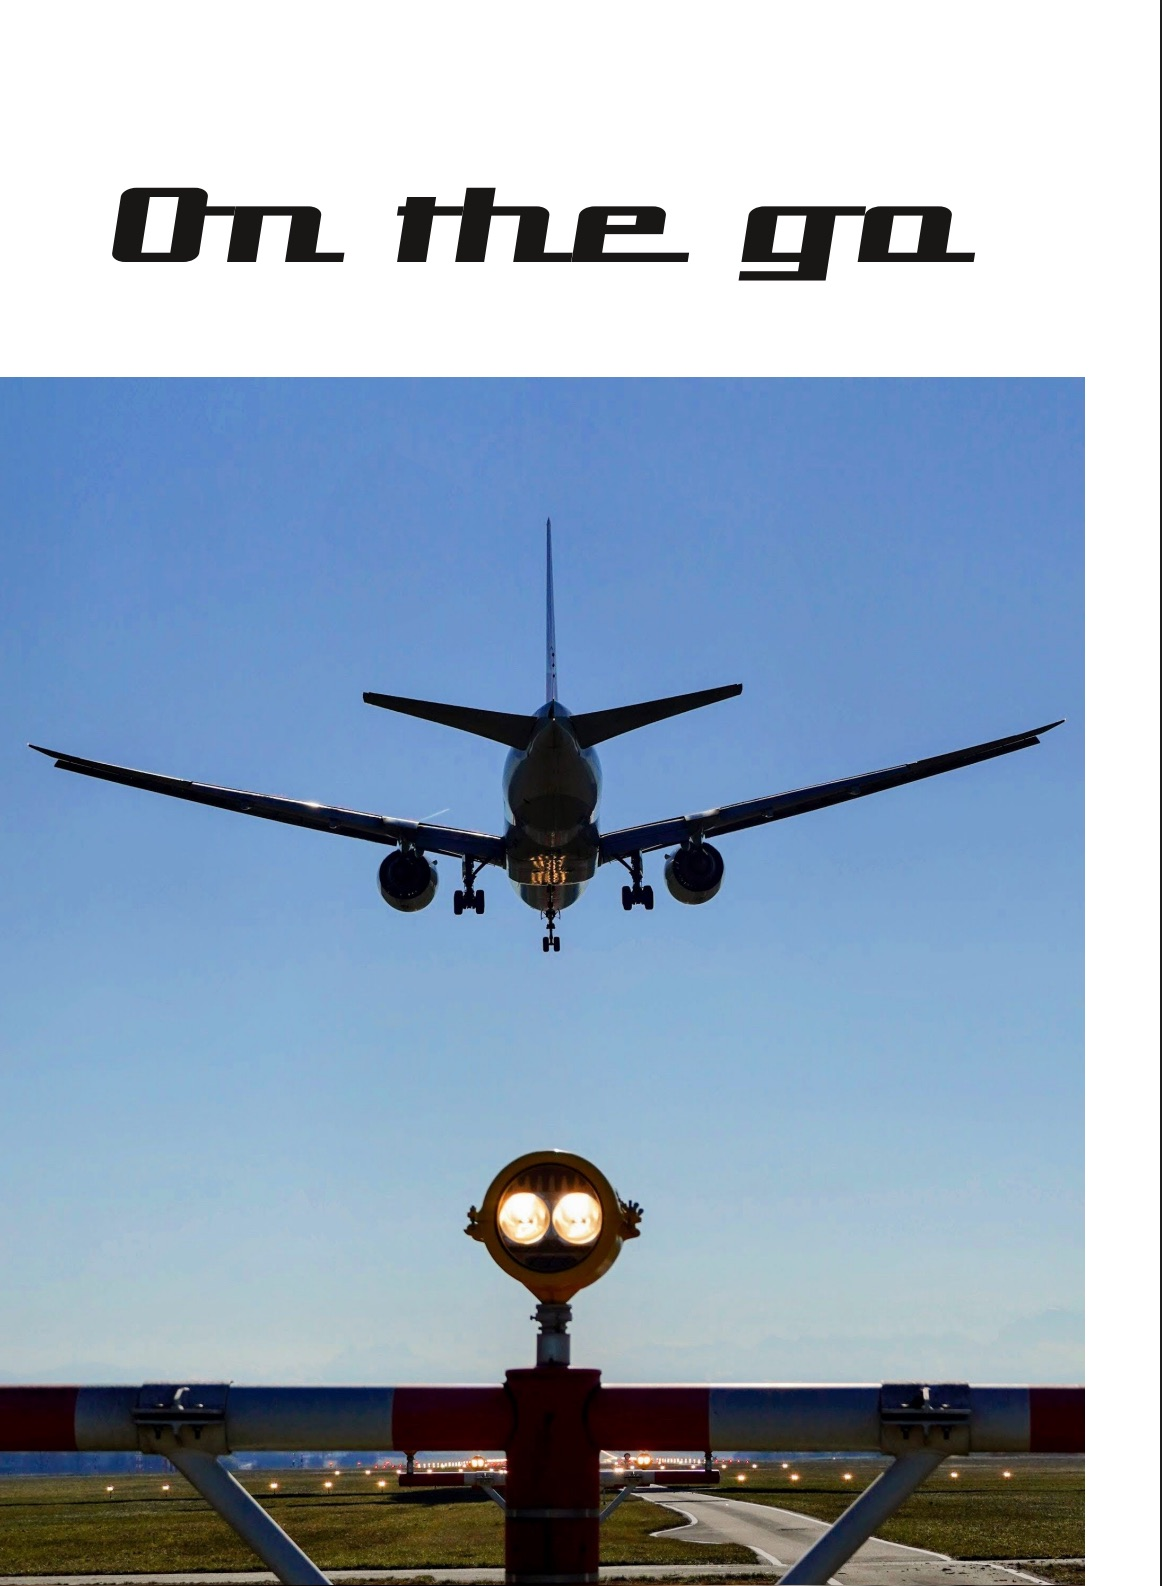
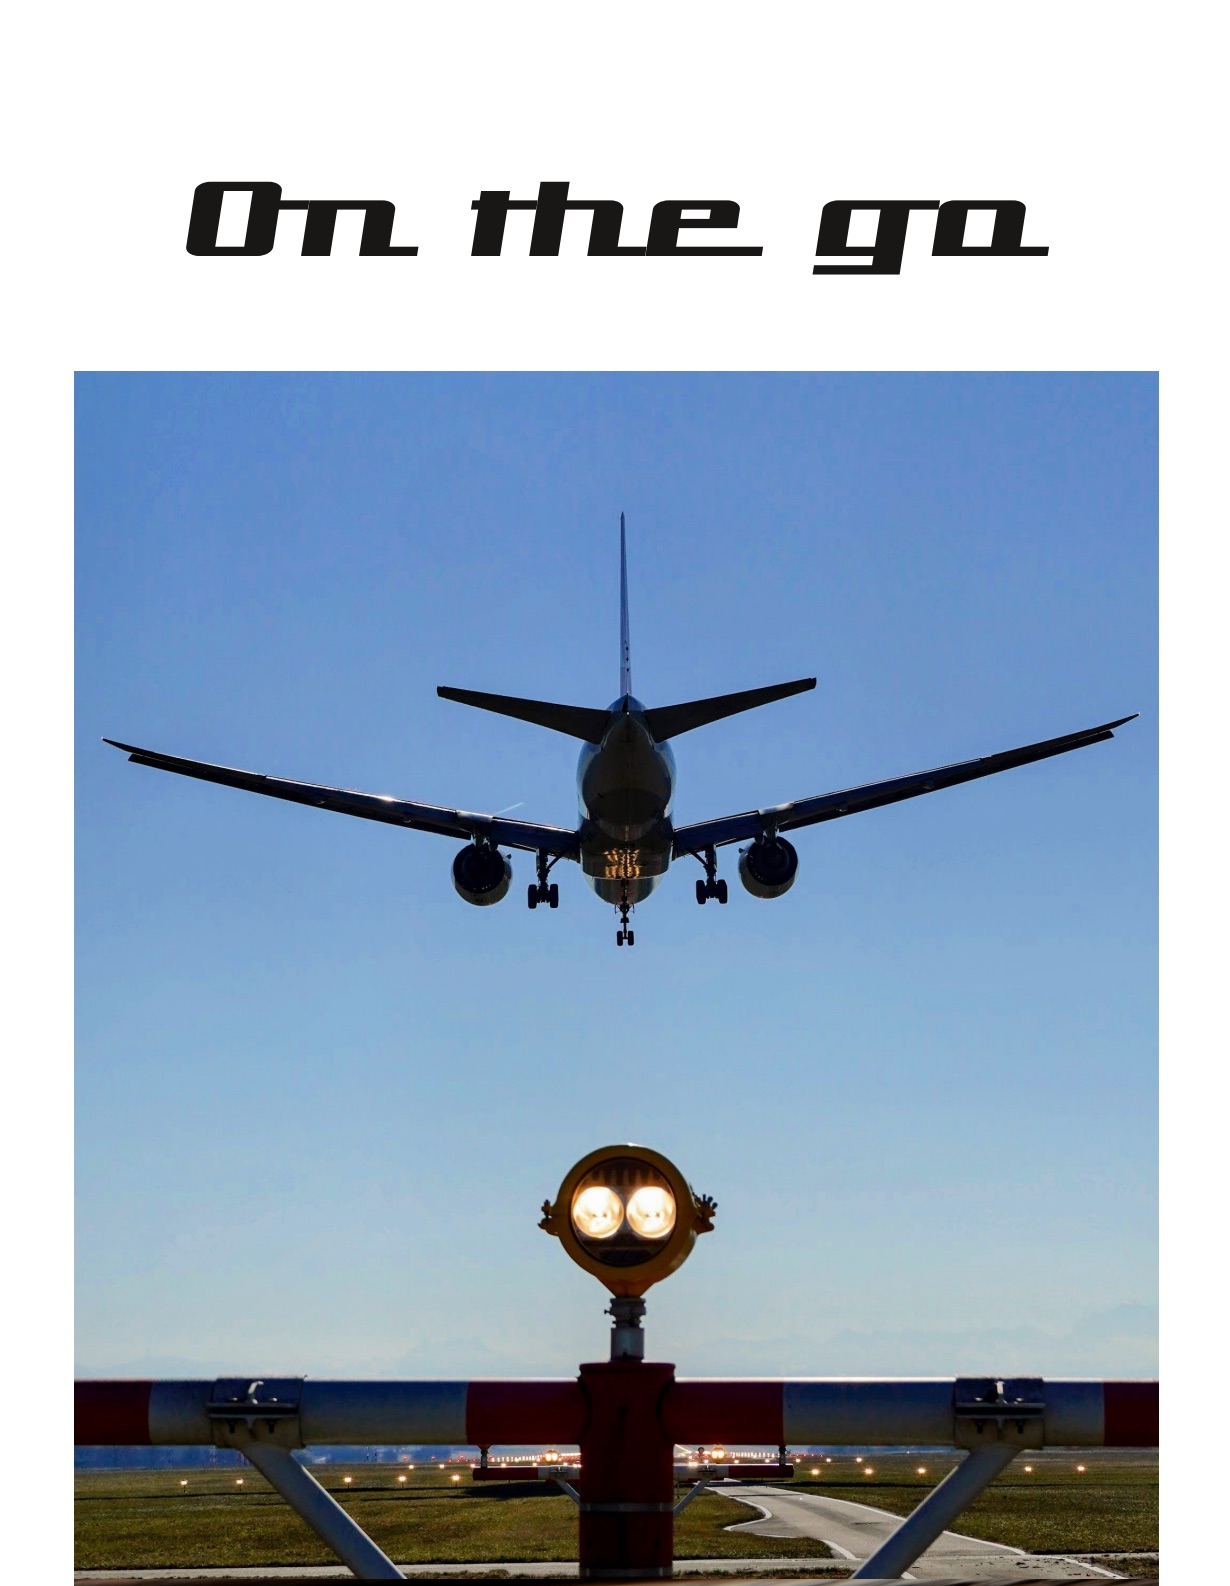
Updated cover for On The Go

diff --git a/src/zines/on-the-go.md b/src/zines/on-the-go.md
@@ -10,7 +10,7 @@ printing_method: "Digital Color Print"
 edition_size: 150
 price: "$2"
 year: 2026
-image: "/images/on-the-go.jpg"
+image: "/images/zines/on-the-go.jpg"
 video: "https://www.youtube.com/watch?v=Vw3yv5lN_bA&list=PLVqpKk7ob1yE&index=2&pp=iAQBsAgC"
 ---
 
